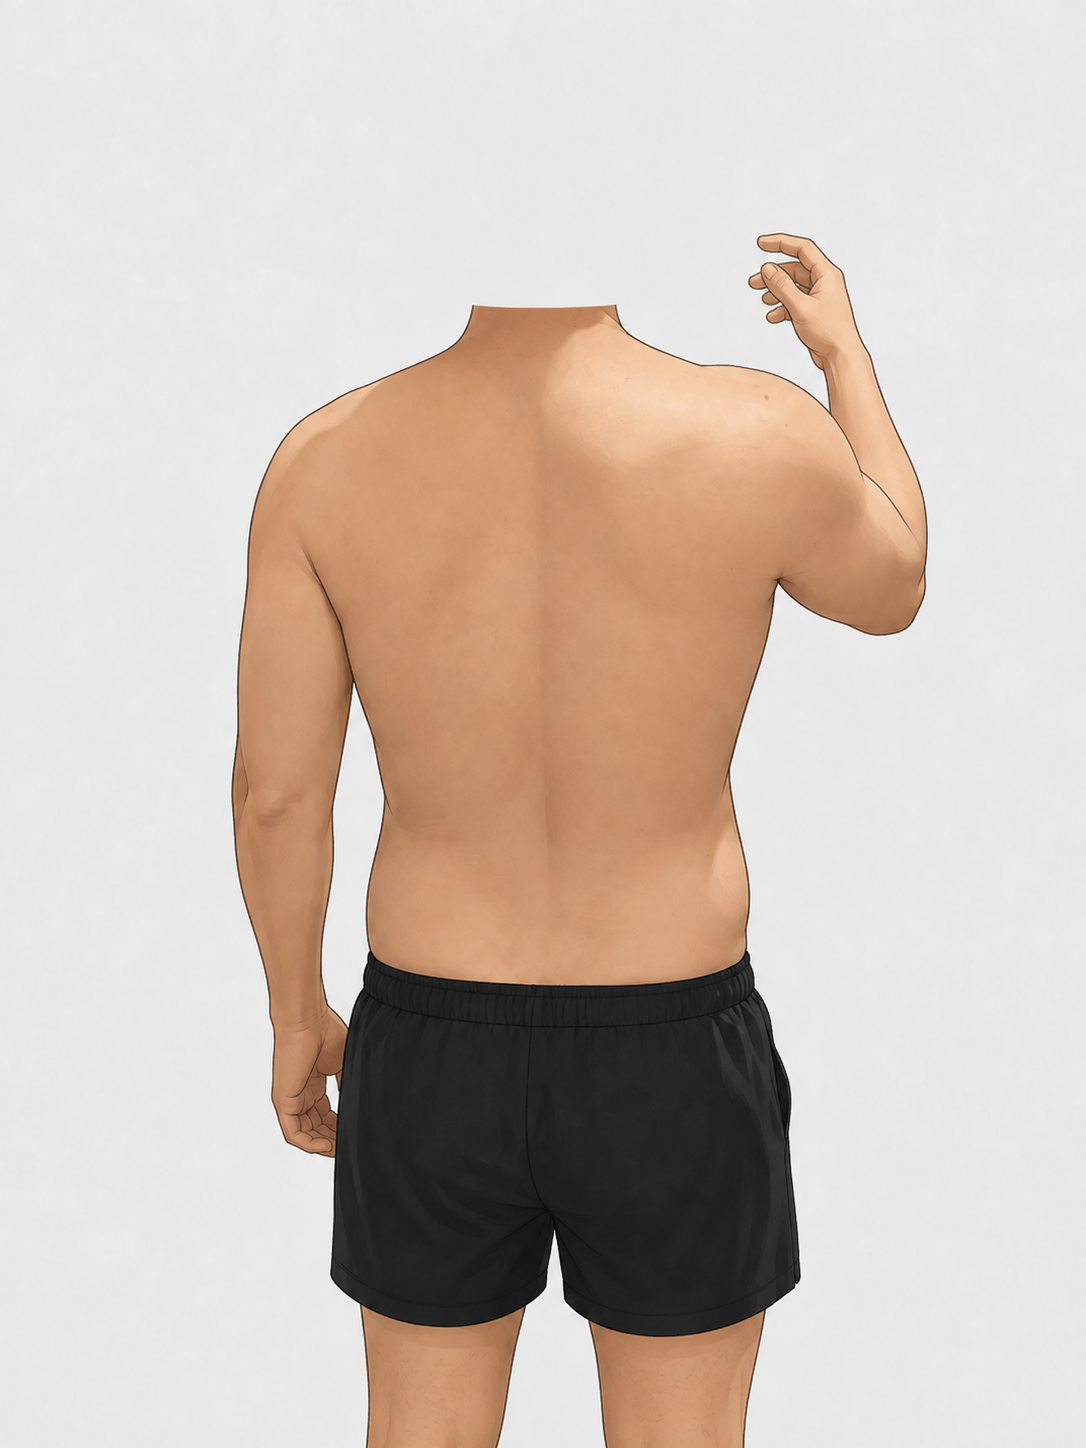
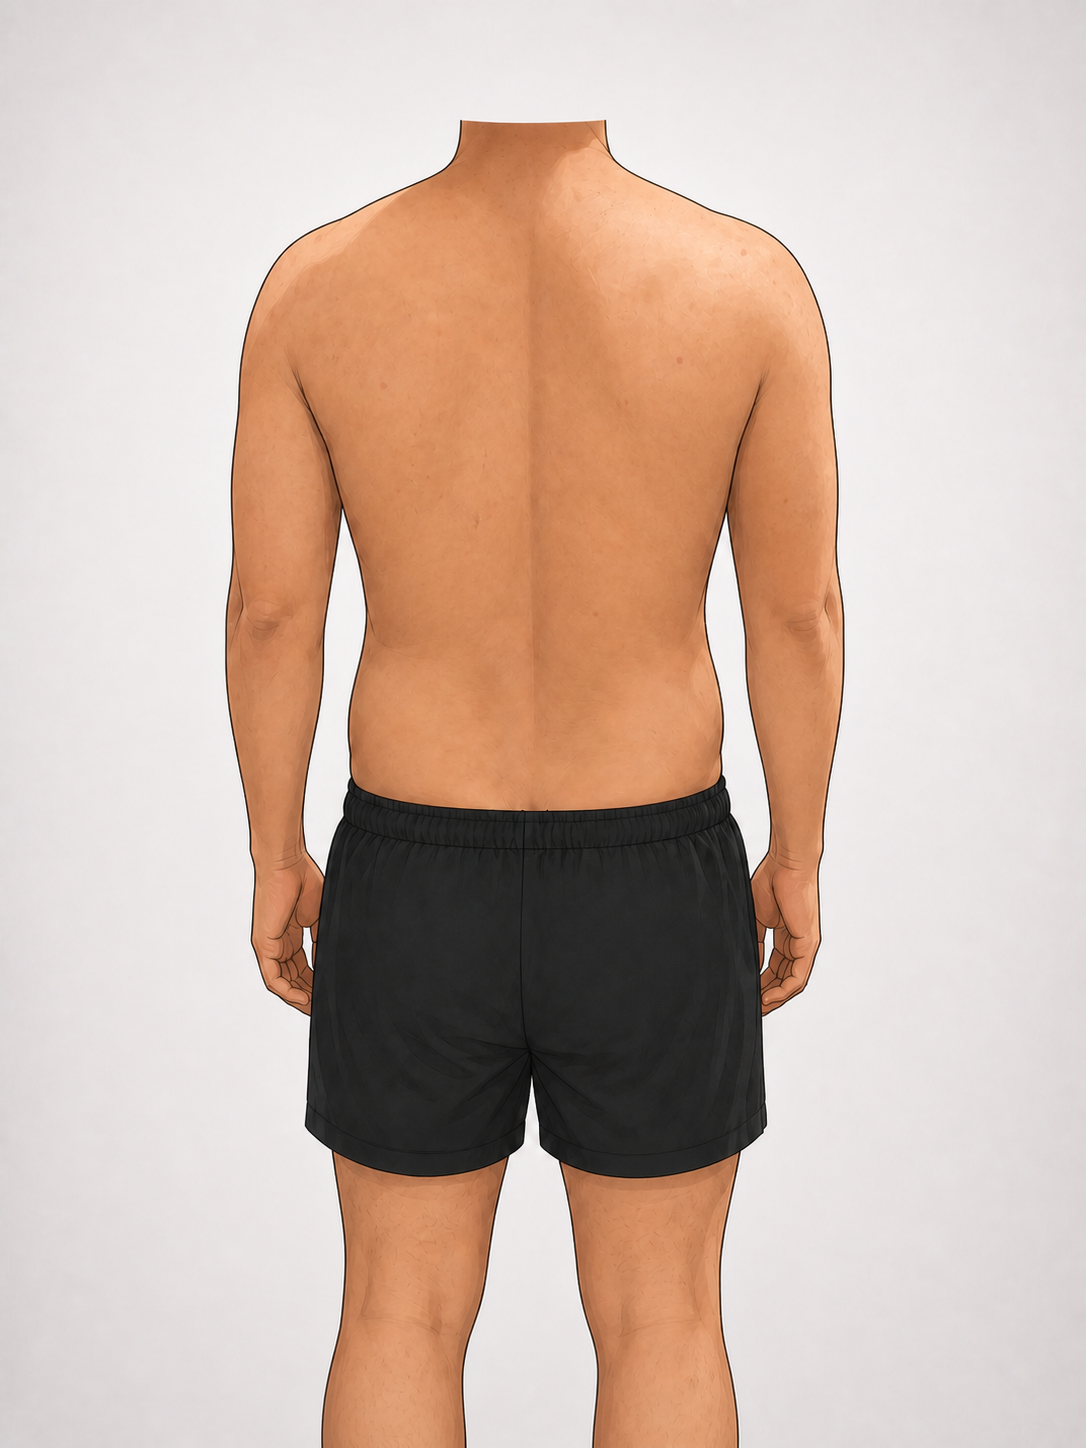
feat(body-go): update Aug 31 physique anime assets

diff --git a/cloudflare-worker/public/index.html b/cloudflare-worker/public/index.html
@@ -403,18 +403,22 @@ function addDays(v,delta){const [y,m,d]=v.split('-').map(Number);const dt=new Da
 function bfRange(s){let a=n(s?.goalBodyFatMin),b=n(s?.goalBodyFatMax);if(a===null||b===null||a<3||b>60||a>b){a=15;b=16}return [a,b]}
 let snap=null, selectedDate=null, latestDate=null, currentView='front', activeTab='overview', physiqueCompareMode='target';
 const CURRENT_BODY_HISTORY=[
- {date:'2026-08-17',assets:{front:'/assets/current-anime-front.png',side:'/assets/current-anime-side.png',back:'/assets/current-anime-back.png'}},
- {date:'2026-08-24',assets:{front:'/assets/current-photo-front.jpg',side:'/assets/current-photo-side.png',back:'/assets/current-photo-back.jpg'}}
+ {date:'2026-08-17',assets:{front:'/assets/physique-2026-08-17-anime-front.png',side:'/assets/physique-2026-08-17-anime-side.png',back:'/assets/physique-2026-08-17-anime-back.png'}},
+ {date:'2026-08-24',assets:{front:'/assets/current-photo-front.jpg',side:'/assets/current-photo-side.png',back:'/assets/current-photo-back.jpg'}},
+ {date:'2026-08-31',assets:{front:'/assets/current-anime-front.png?v=20260831',side:'/assets/current-anime-side.png?v=20260831',back:'/assets/current-anime-back.png?v=20260831'}}
 ];
 const BODY_GALLERY=[
- {date:'2026-08-17',view:'正面',src:'/assets/current-anime-front.png',note:'動畫風去頭去背・頸部至膝蓋'},
- {date:'2026-08-17',view:'側面',src:'/assets/current-anime-side.png',note:'動畫風去頭去背・頸部至膝蓋'},
- {date:'2026-08-17',view:'背面',src:'/assets/current-anime-back.png',note:'動畫風去頭去背・頸部至膝蓋'},
+ {date:'2026-08-17',view:'正面',src:'/assets/physique-2026-08-17-anime-front.png',note:'動畫風去頭去背・頸部至膝蓋'},
+ {date:'2026-08-17',view:'側面',src:'/assets/physique-2026-08-17-anime-side.png',note:'動畫風去頭去背・頸部至膝蓋'},
+ {date:'2026-08-17',view:'背面',src:'/assets/physique-2026-08-17-anime-back.png',note:'動畫風去頭去背・頸部至膝蓋'},
  {date:'2026-08-24',view:'正面',src:'/assets/current-photo-front.jpg',note:'頸部至膝蓋・正式體態紀錄'},
  {date:'2026-08-24',view:'側面',src:'/assets/current-photo-side.png',note:'頸部至膝蓋・正式體態紀錄'},
- {date:'2026-08-24',view:'背面',src:'/assets/current-photo-back.jpg',note:'頸部至膝蓋・正式體態紀錄'}
+ {date:'2026-08-24',view:'背面',src:'/assets/current-photo-back.jpg',note:'頸部至膝蓋・正式體態紀錄'},
+ {date:'2026-08-31',view:'正面',src:'/assets/current-anime-front.png?v=20260831',note:'動畫風去頭去背・頸部至膝蓋'},
+ {date:'2026-08-31',view:'側面',src:'/assets/current-anime-side.png?v=20260831',note:'動畫風去頭去背・頸部至膝蓋'},
+ {date:'2026-08-31',view:'背面',src:'/assets/current-anime-back.png?v=20260831',note:'動畫風去頭去背・頸部至膝蓋'}
 ];
-let galleryIndex=4;
+let galleryIndex=6;
 function currentBodyRecordFor_(date,view){return [...CURRENT_BODY_HISTORY].reverse().find(r=>r.date<=date&&r.assets[view])||null;}
 function previousBodyRecordFor_(record,view){return record?[...CURRENT_BODY_HISTORY].reverse().find(r=>r.date<record.date&&r.assets[view])||null:null;}
 
